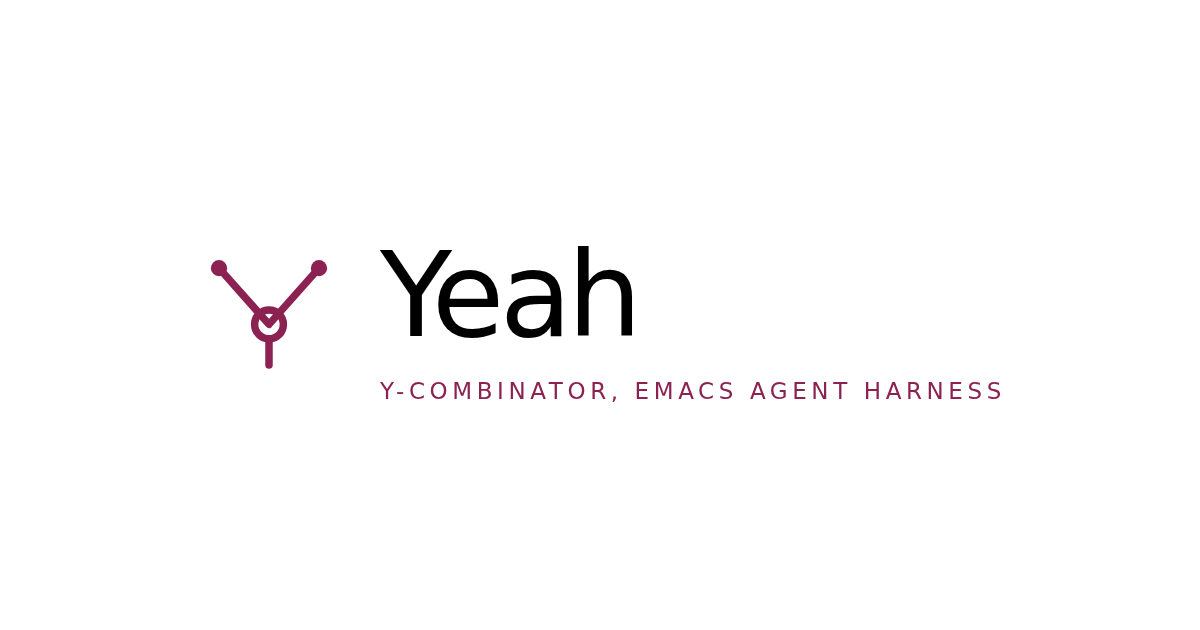
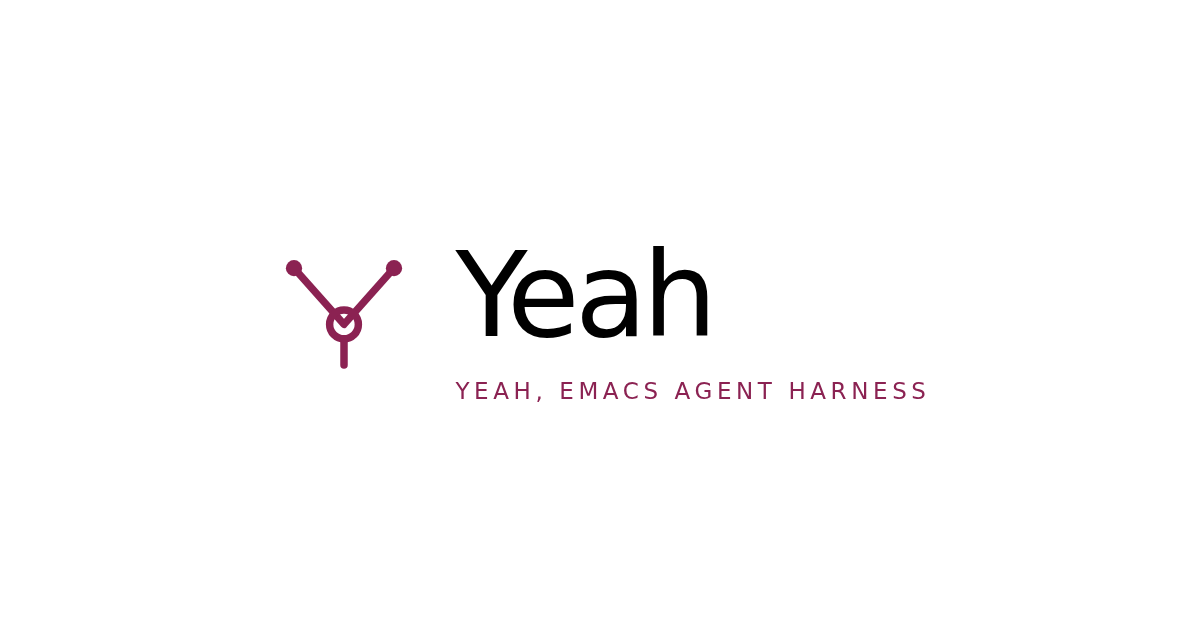
docs: Yeah means Yeah, Emacs Agent Harness
The name was expanded as "Y-combinator, Emacs Agent Harness", which lost
the recursion the name actually has: Yeah reads as Y, E-macs A-gent
H-arness, and the Y is the Y-combinator.  The expansion is now the name
itself, and the Y-combinator stays where it belongs — in the sentence
that explains what the Y means.

The site follows: the tagline, the title, the footer and the social
card all say "Yeah, Emacs Agent Harness".

The numbers in the status block are the current ones: 38 modules, 240
ERT tests, 24 canaries.

Changed region(s): [[0.1542, 0.3921, 0.6167, 0.573], [0.3083, 0.6032, 0.8325, 0.6333]]

diff --git a/site/index.html b/site/index.html
@@ -3,13 +3,13 @@
 <head>
 <meta charset="utf-8">
 <meta name="viewport" content="width=device-width, initial-scale=1">
-<title>Yeah — Y-combinator, Emacs Agent Harness</title>
+<title>Yeah — Emacs Agent Harness</title>
 <meta name="description" content="Yeah is an Emacs Lisp agent harness: the agent runs inside Emacs itself. Model traffic goes through gptel, tools go through a permissioned registry, and the session journal stays append-only.">
 <meta name="color-scheme" content="light">
 <meta name="theme-color" content="#ffffff">
 
 <meta property="og:type" content="website">
-<meta property="og:title" content="Yeah — Y-combinator, Emacs Agent Harness">
+<meta property="og:title" content="Yeah — Emacs Agent Harness">
 <meta property="og:description" content="The agent runs inside Emacs. Emacs is not a client to an agent — it is the agent's runtime.">
 <meta property="og:image" content="assets/og.png">
 <meta name="twitter:card" content="summary_large_image">
@@ -58,7 +58,7 @@
 
       <h1 class="hero__title reveal">
         <span class="hero__word">Yeah</span>
-        <span class="hero__sub">Y-combinator, Emacs Agent Harness</span>
+        <span class="hero__sub">Yeah, Emacs Agent Harness</span>
       </h1>
 
       <p class="hero__lead reveal">
@@ -88,7 +88,7 @@
         </div>
         <div class="fact">
           <dt>Kernel</dt>
-          <dd>37 focused Elisp modules, byte-compile clean</dd>
+          <dd>38 focused Elisp modules, byte-compile clean</dd>
         </div>
       </dl>
     </div>
@@ -339,8 +339,8 @@
           <h3 class="status__title">Verified offline in this checkout</h3>
           <ul class="status__list">
             <li>All <code>lib/</code> modules byte-compile clean, without warnings</li>
-            <li><strong>230 / 230</strong> ERT unit tests pass</li>
-            <li>All <strong>23</strong> direct canaries pass: the wire, the placements, the coding toolset end to end, compaction, approvals, the runtime that never blocks, and the journey of a person — ask, steer, withdraw, cancel</li>
+            <li><strong>240 / 240</strong> ERT unit tests pass</li>
+            <li>All <strong>24</strong> direct canaries pass: the wire, the placements, the coding toolset end to end, compaction, approvals, the runtime that never blocks, the Org export, and the journey of a person — ask, steer, withdraw, cancel</li>
             <li>Append-only JSONL journal, typed event vocabulary, projections and session index</li>
             <li>Tool registry with validated arguments, last-matching permission rules, structured failures</li>
             <li>Queued human control: persistent pending input, steering at batch boundaries, cancellation, nudges, deadlines</li>
@@ -472,7 +472,7 @@
         <circle cx="40" cy="9" r="2.6" fill="currentColor"/>
       </svg>
       <p class="footer__name">Yeah</p>
-      <p class="footer__note">Y-combinator, Emacs Agent Harness</p>
+      <p class="footer__note">Yeah, Emacs Agent Harness</p>
     </div>
 
     <nav class="footer__links" aria-label="Documents">

diff --git a/README.md b/README.md
@@ -1,4 +1,4 @@
-# Yeah — Y-combinator, Emacs Agent Harness
+# Yeah — Emacs Agent Harness
 
 > **Status: v0.1.0-alpha; a kernel prototype, not yet a usable product.**
 > Read `docs/PLAN.md` for the current baseline and the road to a public
@@ -13,7 +13,8 @@ not inside a separate agent process with Emacs acting as a client. The model
 is reached through **gptel**; tools are permissioned Elisp functions; session
 history is an **append-only JSONL journal**.
 
-The **Y** stands for the Y-combinator and expresses the long-term design:
+The name is a recursive acronym — **Yeah**, Emacs Agent Harness — and the
+**Y** stands for the Y-combinator, which expresses the long-term design:
 bounded recursive delegation, self-inspection and a fixed point at which Yeah
 can help develop and verify Yeah itself.
 

diff --git a/docs/ARCHITECTURE.md b/docs/ARCHITECTURE.md
@@ -1,4 +1,4 @@
-# ARCHITECTURE — Yeah, the Y-combinator Emacs Agent Harness
+# ARCHITECTURE — Yeah, the Emacs Agent Harness
 
 > **Document status: normative target.** This file describes the system Yeah
 > is being built to become. It is not evidence that the system already works.
@@ -10,7 +10,8 @@
 
 ## 1. Identity and purpose
 
-**Yeah** means **Y-combinator, Emacs Agent Harness**.
+**Yeah** means **Yeah, Emacs Agent Harness**: a recursive acronym, the **Y**
+is the Y-combinator.
 
 The Y-combinator gives recursion without requiring a name. Yeah takes three
 consequences from that idea:

diff --git a/AGENTS.md b/AGENTS.md
@@ -1,6 +1,7 @@
 # AGENTS.md — the entry point to this repository
 
-> **Yeah** means **Y-combinator, Emacs Agent Harness**. The harness itself is
+> **Yeah** means **Yeah, Emacs Agent Harness**: a recursive acronym, the
+> **Y** is the Y-combinator. The harness itself is
 > Emacs Lisp; Emacs is not merely a client to an external agent. The model is
 > reached through gptel, effects go through the tool registry and permission
 > system, and session history is append-only JSONL.
